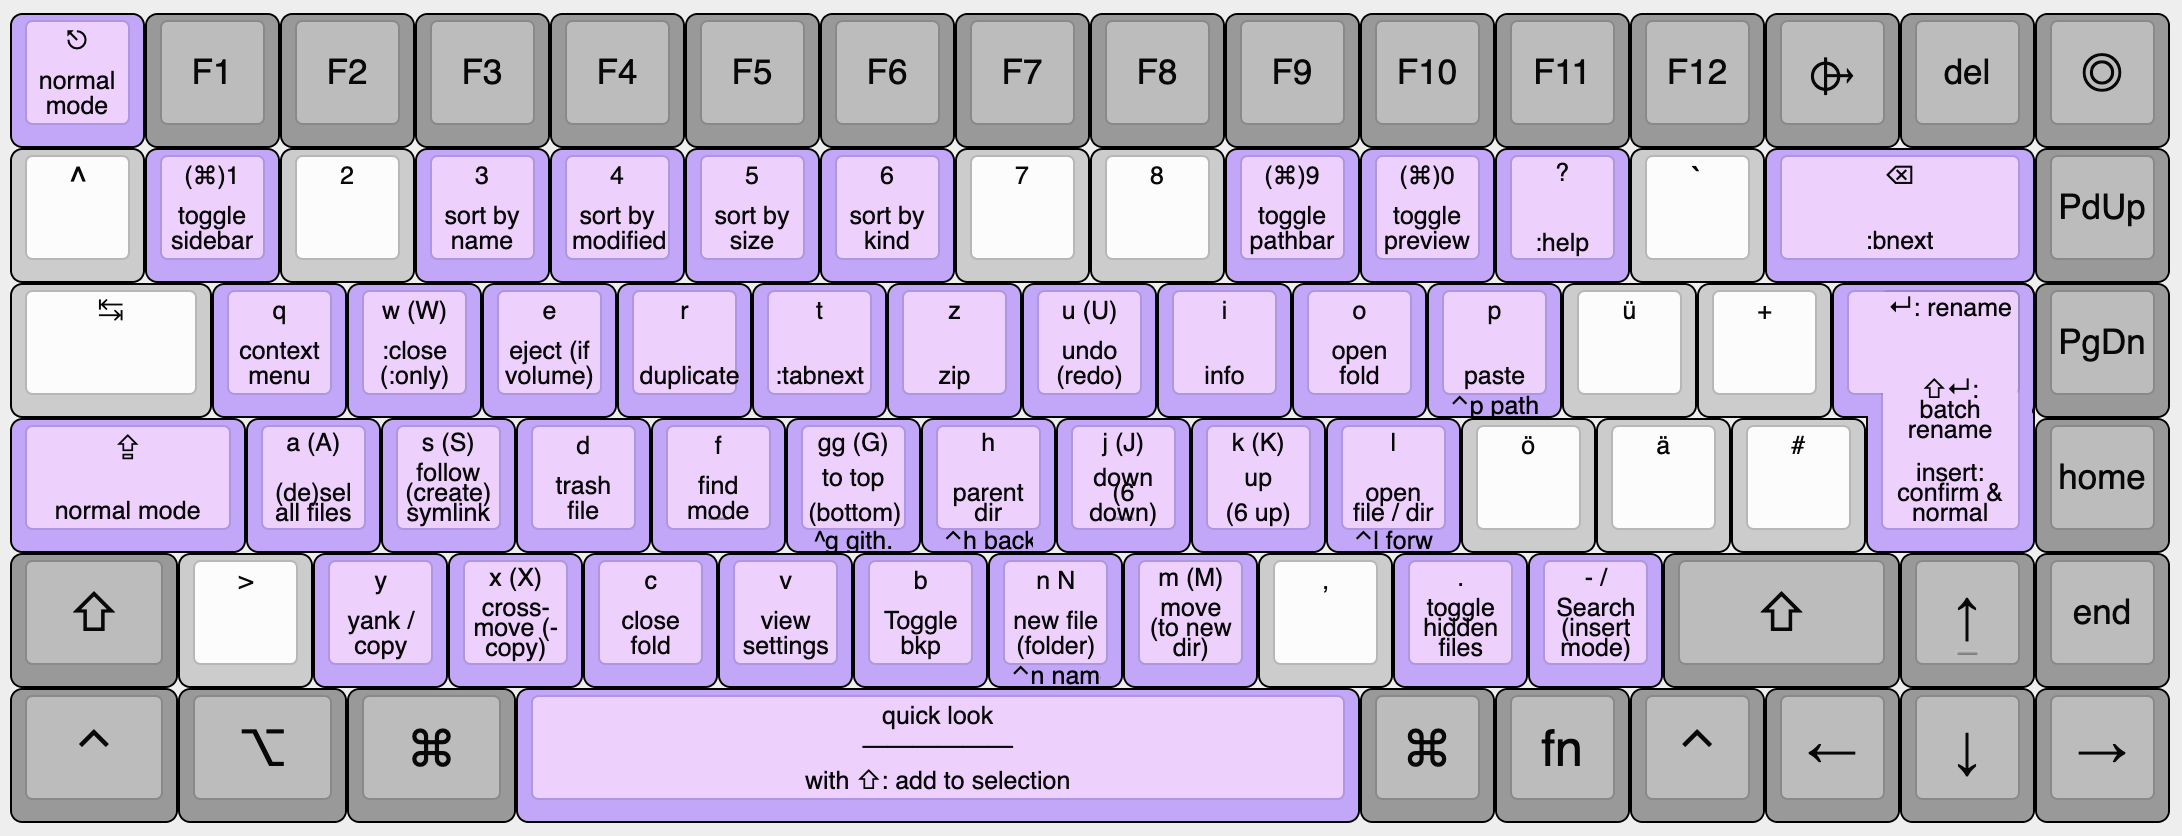
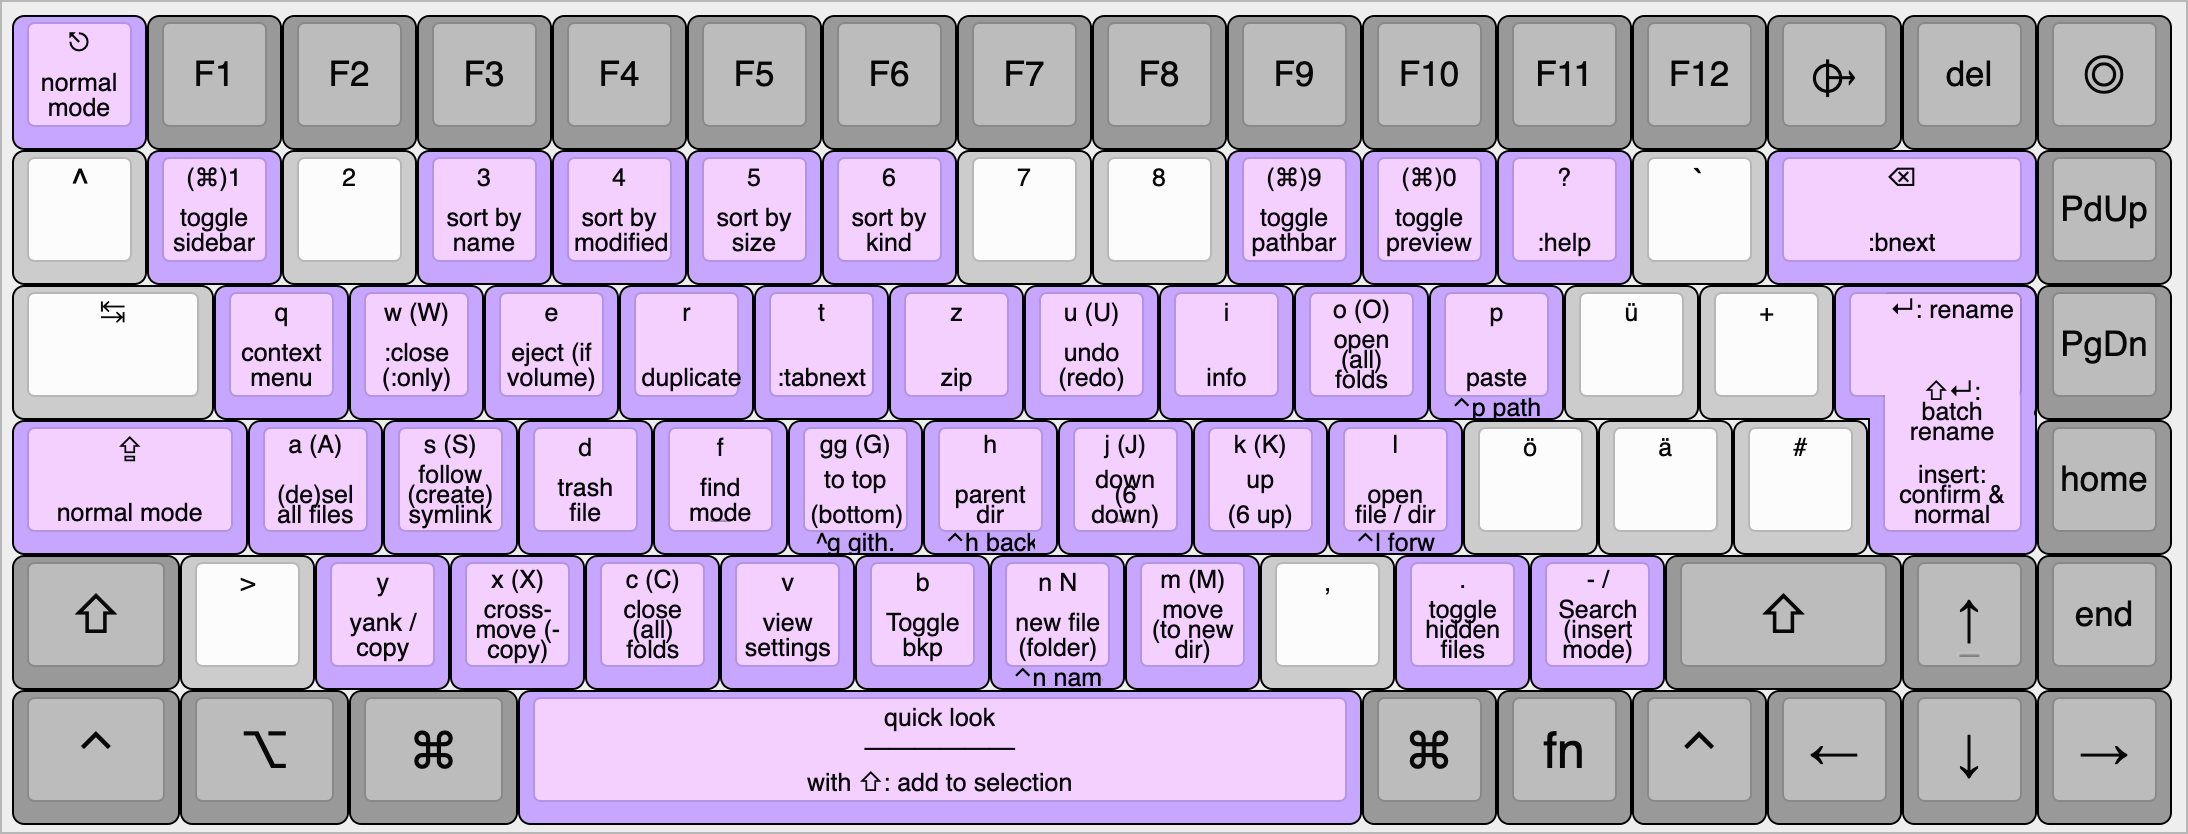
feat: `O` & `C` to recursively open/close folder

Changed region(s): [[0.0, 0.0, 1.0, 1.0]]

diff --git a/README.md b/README.md
@@ -10,7 +10,7 @@ Keyboard-only control for Finder, inspired by vim/ranger.
 - [Caveats](#caveats)
 - [Why not use a Terminal file manager?](#why-not-use-a-terminal-file-manager)
 - [Build](#build)
-- [For Alfred users](#for-alfred-users)
+- [For Alfred/Raycast users](#for-alfredraycast-users)
 - [Credits](#credits)
 <!--toc:end-->
 
@@ -23,8 +23,10 @@ Keyboard-only control for Finder, inspired by vim/ranger.
 - *Find mode* triggered via `f`, works similarly to `f` in vim, expecting another character afterwards. For example, `fh` jumps to the next file which starts with the letter `h`.
 - *`-bkp` Toggle*: Add suffix `-bkp` to the file. If it already has such a suffix, remove it. Also useful for debugging.
 - *GitHub*: `ctrl+g` opens the file at GitHub and also copies the URL to the clipboard.
-- Tip: You can "deactivate" the macOS Desktop via `defaults write com.apple.finder CreateDesktop false`. This way, `<BS>` (going to the next finder window) never focuses the desktop.
-- Consult the [vim help](https://vimhelp.org/) for the Ex commands you are not familiar with.
+- ➡ Consult the [vim help](https://vimhelp.org/) for the remaining ex-commands you are not familiar with.
+
+> __Note__  
+- You can "deactivate" the macOS Desktop via `defaults write com.apple.finder CreateDesktop false`. This way, `<BS>` (going to the next finder window) never focuses the desktop.
 
 ## Installations
 - Install [Karabiner Elements](https://karabiner-elements.pqrs.org/).
@@ -72,7 +74,7 @@ If you want to fork this plugin, I recommend working with the YAML file and "com
 yq -o=json 'explode(.)' finder-vim.yaml > finder-vim.json
 ```
 
-## For Alfred users
+## For Alfred/Raycast users
 Finder-Vim-Mode factors in the usage of Spotlight or Alfred with `cmd+space`. However, if you use another key combination with Alfred, for example for the clipboard or the Universal action, you have to use one of the following methods:
 
 1. Temporarily pause Finder-Vim-Mode via `⌫ backspace`, and use Alfred. As soon as you press either `capslock`, `escape`, or `return`, Finder-Vim-Mode is active again.
